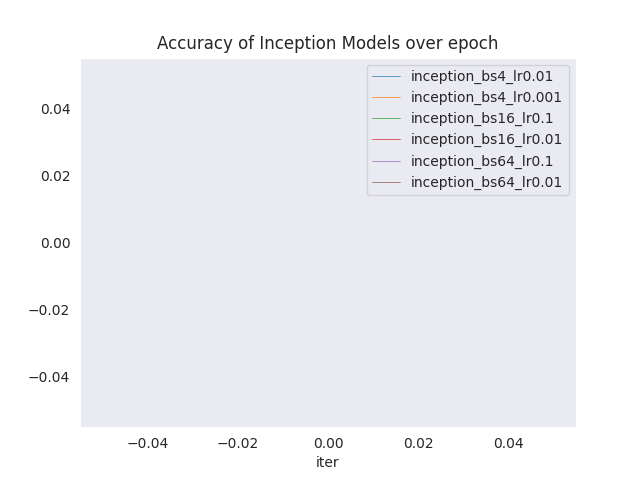
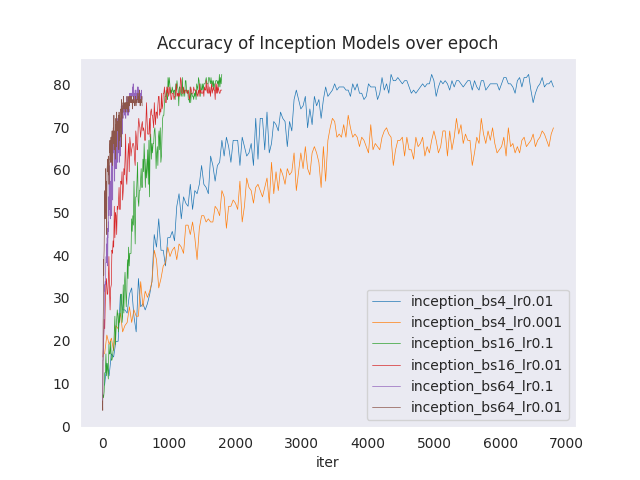
modify the inception plot

diff --git a/CNN_Image_Classification_Code/output/analyze_logs2.py b/CNN_Image_Classification_Code/output/analyze_logs2.py
@@ -1,0 +1,184 @@
+# Copyright (c) OpenMMLab. All rights reserved.
+import argparse
+import json
+from collections import defaultdict
+
+import matplotlib.pyplot as plt
+import numpy as np
+import seaborn as sns
+
+
+def cal_train_time(log_dicts, args):
+    """Compute the average time per training iteration."""
+    for i, log_dict in enumerate(log_dicts):
+        print(f'{"-" * 5}Analyze train time of {args.json_logs[i]}{"-" * 5}')
+        all_times = []
+        for epoch in log_dict.keys():
+            if args.include_outliers:
+                all_times.append(log_dict[epoch]['time'])
+            else:
+                all_times.append(log_dict[epoch]['time'][1:])
+        all_times = np.array(all_times)
+        epoch_ave_time = all_times.mean(-1)
+        slowest_epoch = epoch_ave_time.argmax()
+        fastest_epoch = epoch_ave_time.argmin()
+        std_over_epoch = epoch_ave_time.std()
+        print(f'slowest epoch {slowest_epoch + 1}, '
+              f'average time is {epoch_ave_time[slowest_epoch]:.4f}')
+        print(f'fastest epoch {fastest_epoch + 1}, '
+              f'average time is {epoch_ave_time[fastest_epoch]:.4f}')
+        print(f'time std over epochs is {std_over_epoch:.4f}')
+        print(f'average iter time: {np.mean(all_times):.4f} s/iter')
+        print()
+
+
+def plot_curve(log_dicts, args):
+    """Plot train metric-iter graph."""
+    if args.backend is not None:
+        plt.switch_backend(args.backend)
+    sns.set_style(args.style)
+    # if legend is None, use {filename}_{key} as legend
+    legend = args.legend
+    if legend is None:
+        legend = []
+        for json_log in args.json_logs:
+            for metric in args.keys:
+                legend.append(f'{json_log}_{metric}')
+    assert len(legend) == (len(args.json_logs) * len(args.keys))
+    metrics = args.keys
+
+    num_metrics = len(metrics)
+    for i, log_dict in enumerate(log_dicts):
+        epochs = list(log_dict.keys())
+        for j, metric in enumerate(metrics):
+            print(f'plot curve of {args.json_logs[i]}, metric is {metric}')
+            if metric not in log_dict[epochs[0]]:
+                raise KeyError(
+                    f'{args.json_logs[i]} does not contain metric {metric} '
+                    f'in train mode')
+
+            if 'mAP' in metric:
+                xs = np.arange(1, max(epochs) + 1)
+                ys = []
+                for epoch in epochs:
+                    ys += log_dict[epoch][metric]
+                ax = plt.gca()
+                ax.set_xticks(xs)
+                plt.xlabel('epoch')
+                plt.plot(xs, ys, label=legend[i * num_metrics + j], marker='o')
+            else:
+                xs = []
+                ys = []
+                num_iters_per_epoch = log_dict[epochs[0]]['iter'][-1]
+                for epoch in epochs:
+                    iters = log_dict[epoch]['iter']
+                    #if log_dict[epoch]['mode'][-1] == 'val':
+                    #    iters = iters[:-1]
+                    xs.append(
+                        np.array(iters) + (epoch - 1) * num_iters_per_epoch)
+                    ys.append(np.array(log_dict[epoch][metric][:len(iters)]))
+                xs = np.concatenate(xs)
+                ys = np.concatenate(ys)
+                plt.xlabel('iter')
+                plt.plot(
+                    xs, ys, label=legend[i * num_metrics + j], linewidth=0.5)
+            plt.legend()
+        if args.title is not None:
+            plt.title(args.title)
+    if args.out is None:
+        plt.show()
+    else:
+        print(f'save curve to: {args.out}')
+        plt.savefig(args.out)
+        plt.cla()
+
+
+def add_plot_parser(subparsers):
+    parser_plt = subparsers.add_parser(
+        'plot_curve', help='parser for plotting curves')
+    parser_plt.add_argument(
+        'json_logs',
+        type=str,
+        nargs='+',
+        help='path of train log in json format')
+    parser_plt.add_argument(
+        '--keys',
+        type=str,
+        nargs='+',
+        default=['loss'],
+        help='the metric that you want to plot')
+    parser_plt.add_argument('--title', type=str, help='title of figure')
+    parser_plt.add_argument(
+        '--legend',
+        type=str,
+        nargs='+',
+        default=None,
+        help='legend of each plot')
+    parser_plt.add_argument(
+        '--backend', type=str, default=None, help='backend of plt')
+    parser_plt.add_argument(
+        '--style', type=str, default='dark', help='style of plt')
+    parser_plt.add_argument('--out', type=str, default=None)
+
+
+def add_time_parser(subparsers):
+    parser_time = subparsers.add_parser(
+        'cal_train_time',
+        help='parser for computing the average time per training iteration')
+    parser_time.add_argument(
+        'json_logs',
+        type=str,
+        nargs='+',
+        help='path of train log in json format')
+    parser_time.add_argument(
+        '--include-outliers',
+        action='store_true',
+        help='include the first value of every epoch when computing '
+        'the average time')
+
+
+def parse_args():
+    parser = argparse.ArgumentParser(description='Analyze Json Log')
+    # currently only support plot curve and calculate average train time
+    subparsers = parser.add_subparsers(dest='task', help='task parser')
+    add_plot_parser(subparsers)
+    add_time_parser(subparsers)
+    args = parser.parse_args()
+    return args
+
+
+def load_json_logs(json_logs):
+    # load and convert json_logs to log_dict, key is epoch, value is a sub dict
+    # keys of sub dict is different metrics, e.g. memory, bbox_mAP
+    # value of sub dict is a list of corresponding values of all iterations
+    log_dicts = [dict() for _ in json_logs]
+    for json_log, log_dict in zip(json_logs, log_dicts):
+        with open(json_log, 'r') as log_file:
+            for line in log_file:
+                log = json.loads(line.strip())
+                # skip lines without `epoch` field
+                if 'epoch' not in log:
+                    continue
+                epoch = log.pop('epoch')
+                if epoch not in log_dict:
+                    log_dict[epoch] = defaultdict(list)
+                for k, v in log.items():
+                    log_dict[epoch][k].append(v)
+    return log_dicts
+
+
+def main():
+    args = parse_args()
+
+    json_logs = args.json_logs
+    for json_log in json_logs:
+        assert json_log.endswith('.json')
+
+    log_dicts = load_json_logs(json_logs)
+
+    eval(args.task)(log_dicts, args)
+
+
+if __name__ == '__main__':
+    main()
+
